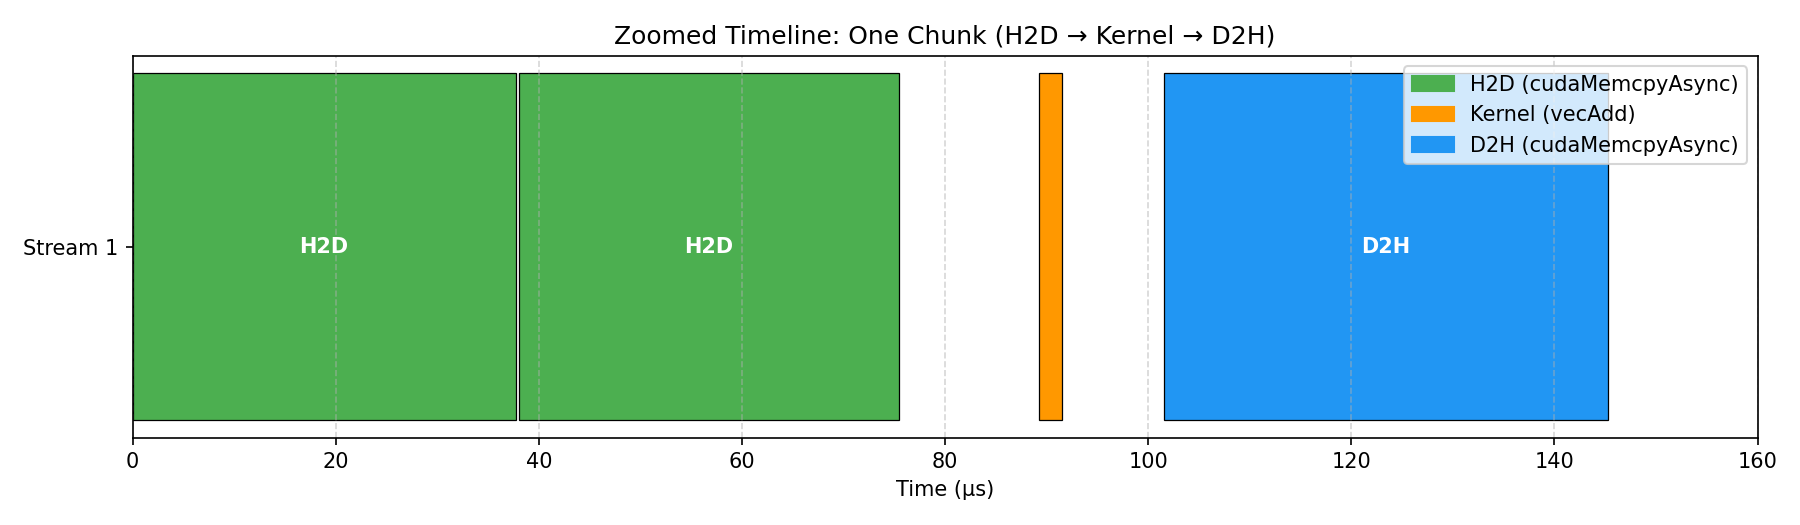
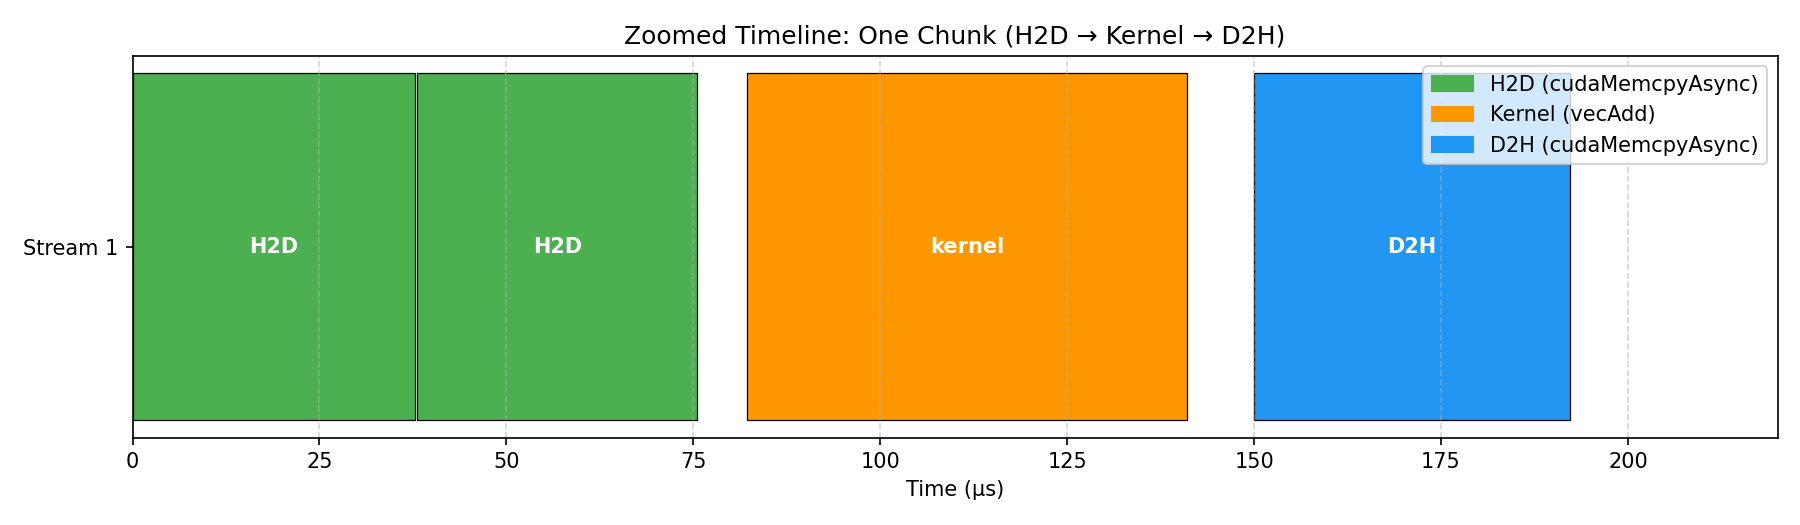
docs(week2/day3): rerun with 10k kernel loops so kernel is visible in timeline

diff --git a/aiinfra/week2/day3/README.md b/aiinfra/week2/day3/README.md
@@ -271,7 +271,7 @@ __global__ void vecAdd(const float* A, const float* B, float* C, int n) {
     int i = blockIdx.x * blockDim.x + threadIdx.x;
     if (i < n) {
         float sum = A[i] + B[i];
-        for (int j = 0; j < 100; j++) {
+        for (int j = 0; j < 10000; j++) {
             sum = sum * 0.999f + 0.001f;
         }
         C[i] = sum;
@@ -429,7 +429,7 @@ nvcc -o multi_stream kernels/multi_stream_pipeline.cu -O3 -arch=sm_120
 ./multi_stream
 ```
 
-**实际运行结果**（在 NVIDIA GeForce RTX 5090 上执行）：
+**实际运行结果**（在 NVIDIA GeForce RTX 5090 上执行，Kernel 循环 10000 次以放大计算耗时）：
 
 ```
 === Multi-Stream Overlap Pipeline ===
@@ -438,15 +438,15 @@ Chunk size: 262144 (1.00 MB)
 Num chunks: 64, Num streams: 4
 
 Running sequential version...
-Sequential: 9.349 ms
+Sequential: 13.091 ms
 
 Running multi-stream version (nStreams=4)...
-Multi-Stream: 5.488 ms
+Multi-Stream: 5.396 ms
 
 === Performance Summary ===
-Sequential: 9.349 ms
-Multi-Stream: 5.488 ms
-Speedup: 1.70x
+Sequential: 13.091 ms
+Multi-Stream: 5.396 ms
+Speedup: 2.43x
 Result check: PASS
 ```
 
@@ -465,11 +465,11 @@ nsys profile -o multi_stream_timeline ./multi_stream
 从图中可以看到：
 - 4 个 Stream 横向并行推进，每个 Stream 内部按 `H2D → Kernel → D2H` 顺序执行。
 - 不同 Stream 的 H2D、Kernel、D2H 在时间上相互重叠，Copy Engine 与 Compute Engine 同时工作。
-- 这与顺序版本（单 Stream 串行）形成对比，也是 Multi-Stream 取得约 **1.7x 加速**的原因。
+- 这与顺序版本（单 Stream 串行）形成对比，也是 Multi-Stream 取得约 **2.4x 加速**的原因。
 
-> 💡 **为什么看不到 Kernel 执行的条？**
+> 💡 **Kernel 为什么现在能看到了？**
 >
-> 这个版本里 `vecAdd` 的计算量很小（只有 100 次循环），Kernel 执行时间只有约 **2 μs**，而 H2D/D2H 拷贝大约 **40 μs**。在毫秒级总览图里 Kernel 的宽度只有 H2D/D2H 的 1/20，所以几乎被压成一条细线，看不清楚。
+> 为了让 Timeline 上能看清 Kernel 执行，这里把 `vecAdd` 里的循环次数从 100 次提高到 **10000 次**。这样 Kernel 执行时间从约 2 μs 增加到约 **60 μs**，和 H2D/D2H 拷贝（约 40 μs）处于同一量级，在总览图里就能明显看到橙色的 Kernel 条了。
 >
 > 下面是把时间轴放大到微秒级、只看 **Stream 1 里一个 chunk** 的截图，可以清楚看到 `H2D → H2D → Kernel → D2H` 的完整流水线：
 